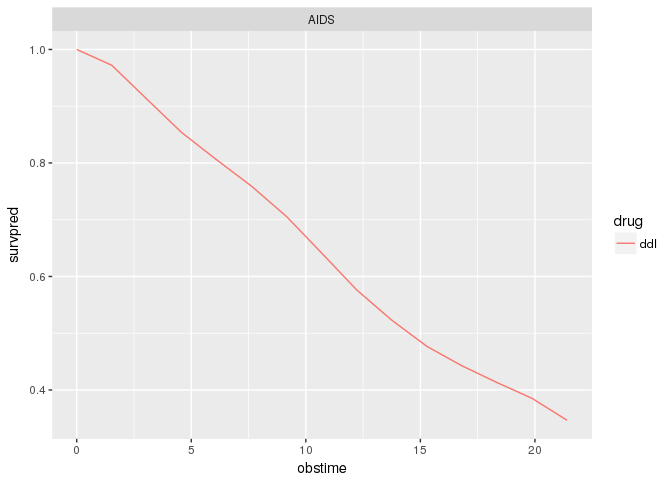
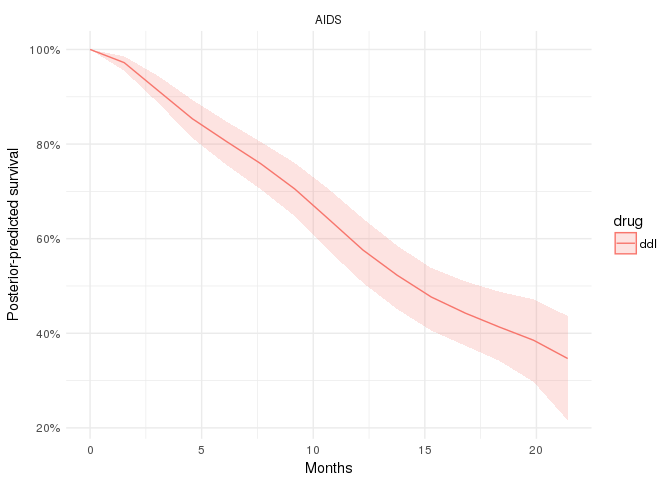
latest execution output

diff --git a/summarize_aids_fit.md b/summarize_aids_fit.md
@@ -568,10 +568,16 @@ Here we will consider only data known at baseline, then draw from the posterior 
 
 ``` r
 ggplot(with_aids_ddI_ppsurv %>% dplyr::mutate(drug = 'ddI', prevOI = 'AIDS') %>%
-         dplyr::bind_cols(with_aids_ddC_ppsurv %>% dplyr::mutate(drug = 'ddC', prevOI = 'AIDS')),
+         dplyr::bind_cols(with_aids_ddC_ppsurv %>% dplyr::mutate(drug = 'ddC', prevOI = 'AIDS')) %>%
+dplyr::bind_cols(no_aids_ddI_ppsurv %>% dplyr::mutate(drug = 'ddI', prevOI = 'noAIDS')) %>%
+  dplyr::bind_cols(no_aids_ddC_ppsurv %>% dplyr::mutate(drug = 'ddC', prevOI = 'noAIDS')),
        aes(x = obstime, y = survpred, group = drug, colour = drug)) +
   geom_line() +
-  facet_wrap(~prevOI)
+  geom_ribbon(aes(ymin = ci_lb, ymax = ci_ub, colour = NULL, fill = drug), alpha = 0.2) +
+  facet_wrap(~prevOI) +
+  theme_minimal() +
+  scale_y_continuous('Posterior-predicted survival', labels = percent) +
+  scale_x_continuous('Months')
 ```
 
 ![](summarize_aids_fit_files/figure-markdown_github/summ-drug-effect-aids-1.png)
